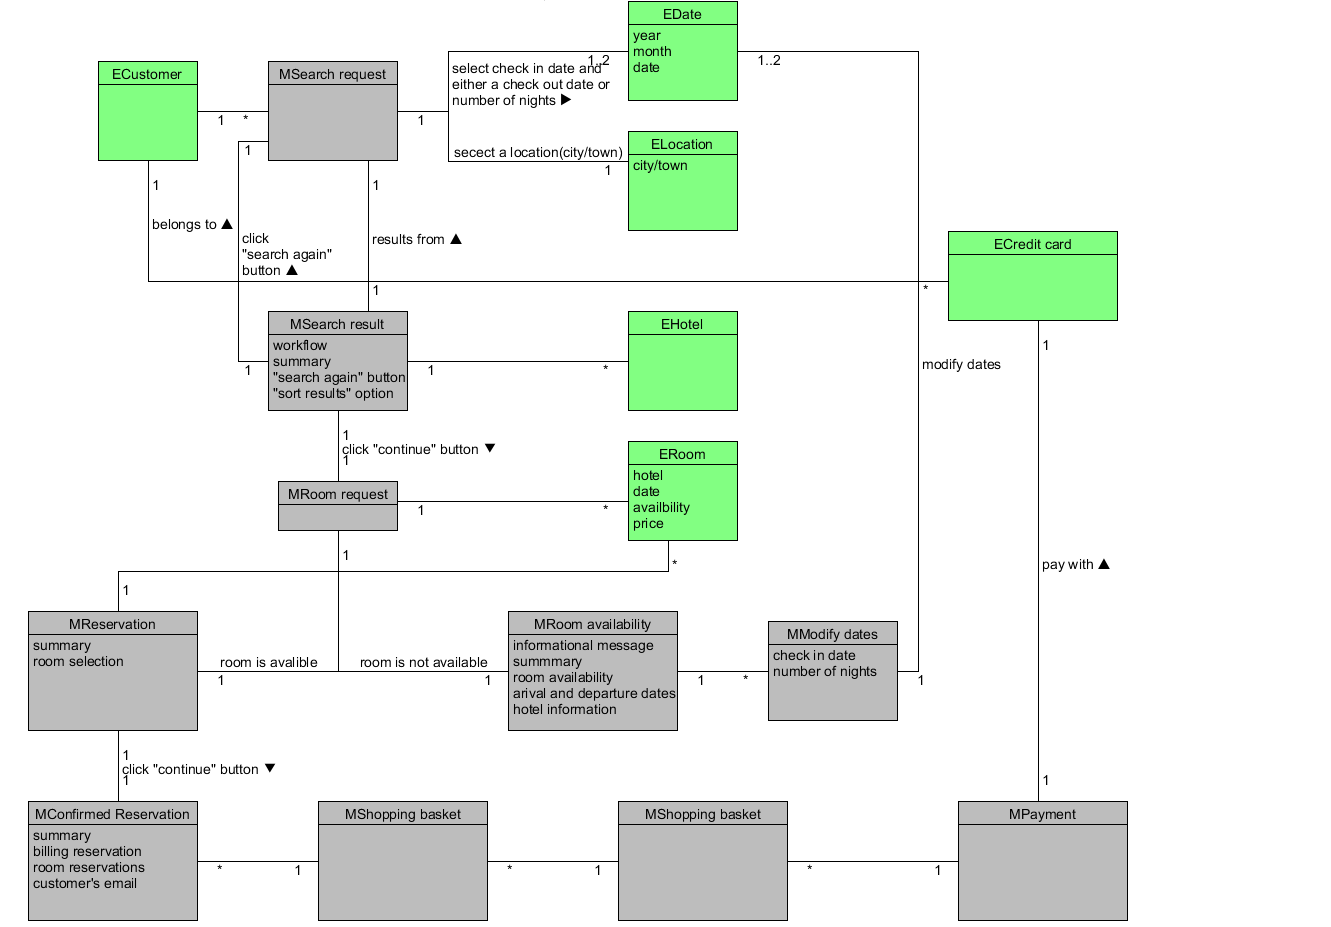
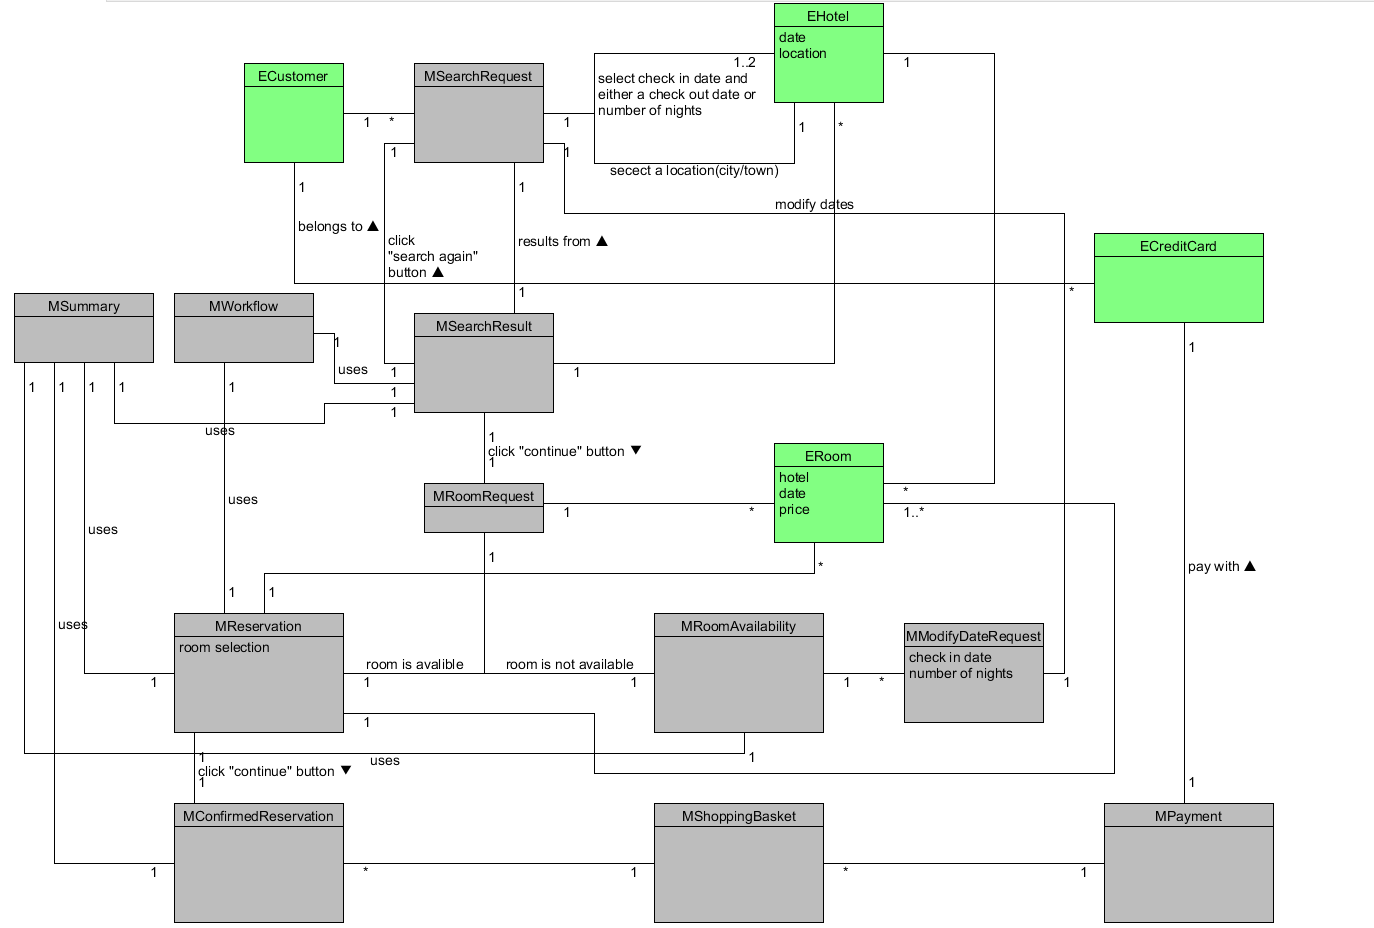
hw5

diff --git a/_posts/2018-04-29-系统分析与设计hw5.md b/_posts/2018-04-29-系统分析与设计hw5.md
@@ -9,3 +9,11 @@
   ![lesson7_1_a](https:\\starthemoon.github.io\images\lesson7_1_a.png)
 
 * b
+
+
+![lesson7_1_b](https:\\starthemoon.github.io\images\lesson7_1_b.png)
+
+> 数据库逻辑模型：主要考察EntityClasses之间的关系以及它们的属性。需要符合数据关系范式。
+>
+> 领域模型：对现实中的实体抽象成类，再考察类之间的关系。类包括EntityClass和MediatorClass，没有数据关系范式的约束。
+
